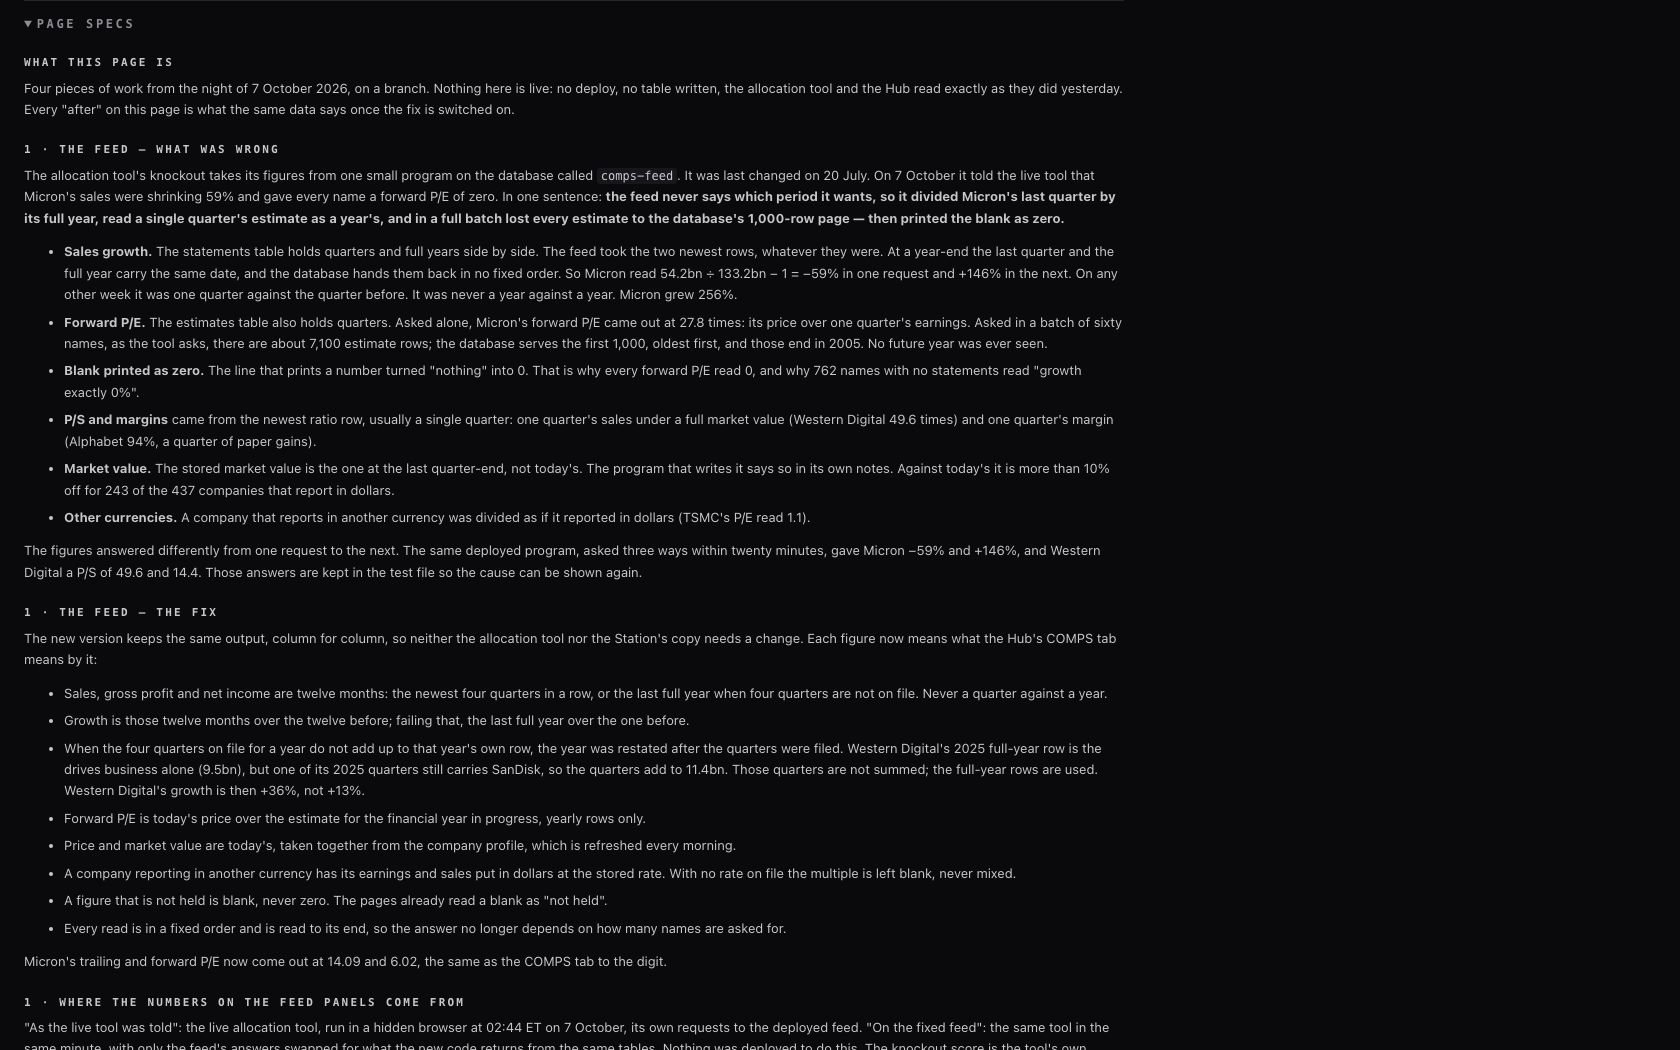
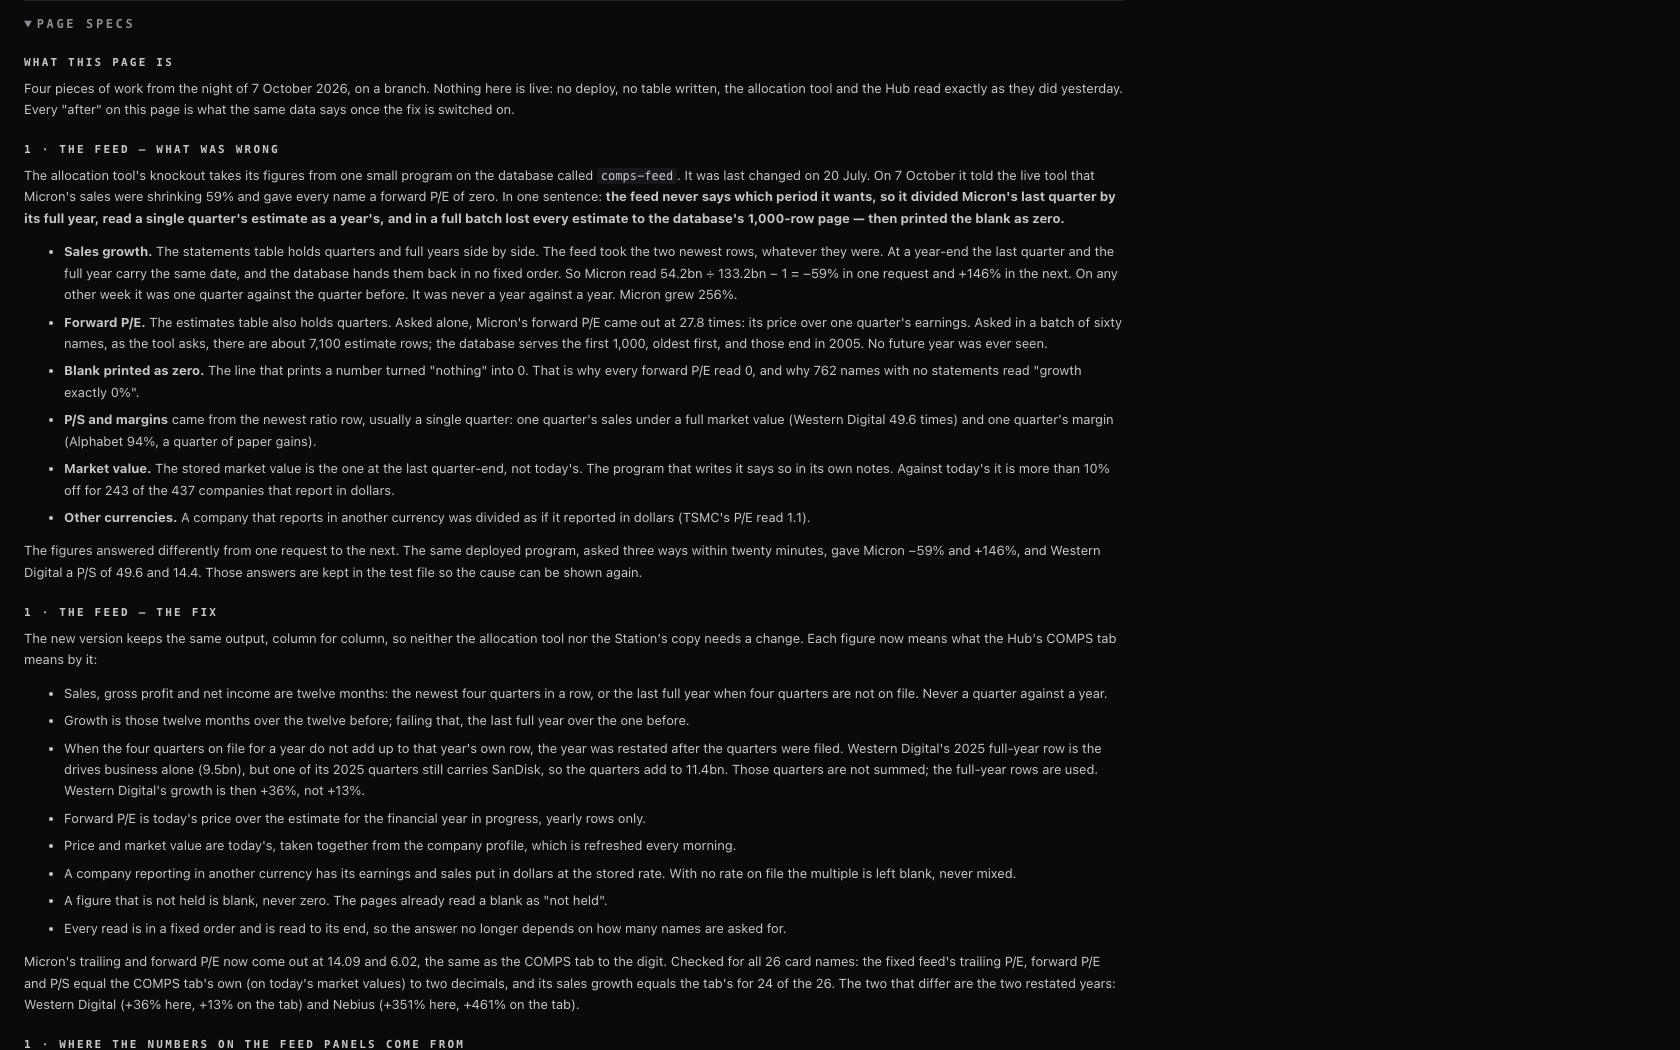
FD1 · the page says how each piece is switched on, and that the fixed feed equals the comps tab for all 26 names
PAGE SPECS gains the exact deploy command for the feed, the check to run on what
is live afterwards, the way back, and where each of the other switches is thrown.

Measured and now tested from the two committed runs: for all 26 card names the
fixed feed's trailing P/E, forward P/E and P/S equal the comps reader's own (on
today's market values) to two decimals; sales growth equals the tab's for 24, and
the two that differ are the restated years (WDC +36% against +13%, NBIS +351%
against +461%).

Changed region(s): [[0.0, 0.9143, 0.65, 1.0]]

diff --git a/deliverables/20261007/feed-fix/FEED-FIX.html b/deliverables/20261007/feed-fix/FEED-FIX.html
@@ -170,7 +170,7 @@ node deliverables/20261007/feed-fix/tools/comps-rerun.mjs --out memory.json MU S
 <li>A figure that is not held is blank, never zero. The pages already read a blank as "not held".</li>
 <li>Every read is in a fixed order and is read to its end, so the answer no longer depends on how many names are asked for.</li>
 </ul>
-<p>Micron's trailing and forward P/E now come out at 14.09 and 6.02, the same as the COMPS tab to the digit.</p>
+<p>Micron's trailing and forward P/E now come out at 14.09 and 6.02, the same as the COMPS tab to the digit. Checked for all 26 card names: the fixed feed's trailing P/E, forward P/E and P/S equal the COMPS tab's own (on today's market values) to two decimals, and its sales growth equals the tab's for 24 of the 26. The two that differ are the two restated years: Western Digital (+36% here, +13% on the tab) and Nebius (+351% here, +461% on the tab).</p>
 
 <h4>1 · WHERE THE NUMBERS ON THE FEED PANELS COME FROM</h4>
 <p>"As the live tool was told": the live allocation tool, run in a hidden browser at 02:44 ET on 7 October, its own requests to the deployed feed. "On the fixed feed": the same tool in the same minute, with only the feed's answers swapped for what the new code returns from the same tables. Nothing was deployed to do this. The knockout score is the tool's own, unchanged: price, growth, margin and leverage against the name's business line. The tool priced 1,211 symbols; 387 of them have an estimate on file.</p>
@@ -219,6 +219,15 @@ node deliverables/20261007/feed-fix/tools/comps-rerun.mjs --out memory.json MU S
 <li>The allocation repository was not touched: the fault is not there.</li>
 <li>The earlier lane's flag tool on another branch still groups copies by exact date; it was not changed from here.</li>
 <li>No Hermes report (blocked for an earlier lane and not retried) and no Linear or Notion update.</li>
+</ul>
+
+<h4>HOW EACH PIECE IS SWITCHED ON — NOTHING IS ON TODAY</h4>
+<ul>
+<li><b>The feed.</b> One command for the coordinator, from the Hub checkout on this branch: <code>supabase functions deploy comps-feed --project-ref wadinxqplrggagkvrdag --no-verify-jwt</code>. Then check what is live: <code>curl -s "https://wadinxqplrggagkvrdag.supabase.co/functions/v1/comps-feed?syms=MU&amp;format=json"</code> must answer <code>comps-feed-v6</code> with Micron's forward year 2027-09-03 and a forward P/E near 6. The way back: the old program is kept byte for byte as <code>supabase/functions/comps-feed/index.ts.ROLLBACK-v5-20260720</code>; put it back as <code>index.ts</code> and deploy again. The allocation tool and the Station need no change.</li>
+<li><b>The cards' revision line.</b> Already in the card tool; it takes effect the next time the cards are built.</li>
+<li><b>Today's market values in comps.</b> The reader takes one option, <code>marketValueFrom: "profile"</code>; the COMPS tab and the card job pass it once Alan says so.</li>
+<li><b>Growth from one forecast year to the next.</b> The caller passes <code>FD1_ALL</code> in place of <code>CP1_ALL</code> (or <code>FD1_ALL_LAST</code> for the proposal).</li>
+<li><b>The foreign peers.</b> The facts file dropped beside the comps code is picked up by itself.</li>
 </ul>
 
 <h4>HOW IT WAS CHECKED</h4>
